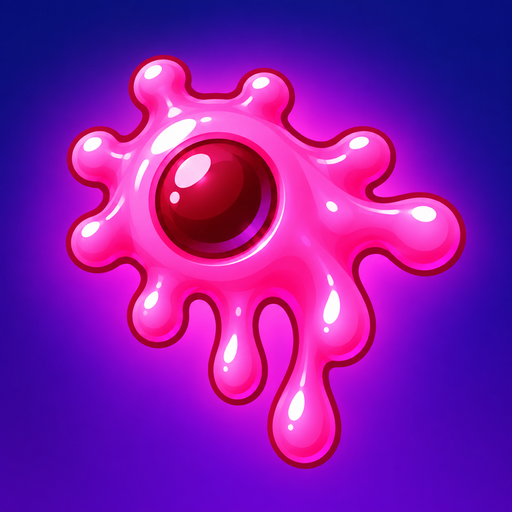
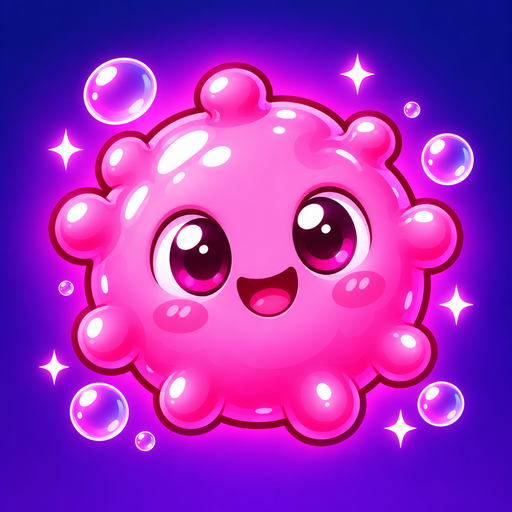
앱 아이콘을 귀여운 포자 캐릭터로 바꿈 (iOS·안드로이드·웹)
예전 아이콘이 눈알·살덩이처럼 보여 혐오감을 줄 수 있다는 의견에 따라
Codex로 그린 후보 중 C(분홍 포자, 반짝임·비눗방울)를 넣었다.
안드로이드 적응형 아이콘은 안쪽 그림을 키워 테두리가 보이지 않게 했다.

diff --git a/Tools/make_android_icon.py b/Tools/make_android_icon.py
@@ -12,7 +12,7 @@ icon = Image.open("SporeSweep/Assets.xcassets/AppIcon.appiconset/AppIcon.png").c
 
 N = 432
 layer = icon.resize((N, N), Image.LANCZOS).filter(ImageFilter.GaussianBlur(60))
-inner = round(N * 0.62)
+inner = round(N * 0.76)  # 아이콘 가장자리가 보이는 72dp 밖에 오게 한다
 mask = Image.new("L", (inner, inner), 0)
 margin = round(inner * 0.04)
 ImageDraw.Draw(mask).ellipse((margin, margin, inner - margin, inner - margin), fill=255)

diff --git a/HANDOFF.md b/HANDOFF.md
@@ -138,6 +138,10 @@
 
 새것이 위다.
 
+- **2026-10-29** 아이콘을 후보 C로 바꿨다(계정 주인 결정, "너무 귀엽게 그렸나 싶기는 하다"는 말도 있었다): iOS `AppIcon.png`, `Art/incoming/app_icon.png`(예전 것은 `app_icon_v2.png`), 안드로이드 `ic_launcher.png`·적응형 층(`Tools/make_android_icon.py`), 웹 `icon.png`, Play 아이콘 `Marketing/store/play/icon_512.png`(`Tools/make_play_graphics.py`). DESIGN.md 10장과 Art/PROMPTS.md 7번을 고쳤다. 안드로이드 디버그·iOS 시뮬레이터 빌드 성공. 남은 것: App Store와 Play 스토어 등록정보·Play 게임즈 아이콘 바꾸기, iOS 1.0.1과 안드로이드 다음 versionCode에 담기. 같은 날 캣타워 통신판매업 신고의 "구매안전서비스 비적용 대상 확인서"를 채운 그림(제3호 체크, 소명 4줄)을 계정 주인 `~/Downloads`에 만들었다.
+- **2026-10-29** 연결이 풀려 Codex로 귀여운 포자 아이콘 후보 3장을 그렸다(`Art/incoming/icon_v3/icon_a.png` 분홍, `icon_b.png` 민트 윙크, `icon_c.png` 분홍+반짝임·비눗방울, 비교 `compare.png`). 계정 주인이 고르면 iOS·안드로이드 아이콘과 DESIGN.md 10장, 스토어·Play 게임즈 아이콘을 바꾼다.
+- **2026-10-28** 앱 아이콘이 혐오감을 줄 수 있다는 의견(번들거리는 분홍 덩어리 가운데 검붉은 핵이 눈알·고름처럼 보이고, 흘러내리는 방울이 살덩이 같다). 계정 주인 결정: **귀여운 포자 캐릭터**(동그랗고 말랑한 몸, 큰 눈과 웃는 얼굴, 흘러내림·검붉은 핵 없음)로 바꾼다. DESIGN.md 10장의 아이콘 설명은 새 그림을 고른 뒤 고친다. Codex 그림 생성(`Art/incoming/icon_v3/`에 후보 3장)은 이 맥에서 chatgpt.com·openai.com 연결이 TLS 단계에서 끊겨(api.openai.com은 됨) 실패했다. `codex exec -i`는 뒤의 문장까지 그림으로 읽으므로 프롬프트는 표준 입력으로 넘긴다.
+- **2026-10-28** 보상형 광고 흐름을 다시 확인: 안드로이드 에뮬레이터(디버그, Google DNS)와 iOS 시뮬레이터(디버그)에서 "광고 보고 생명 +1" → 시험 광고 → 보상 → 생명 3→4. AdMob 보고서상 iOS 앱은 최근 7일 요청 12·노출 0(앱 인증 전 제한 게재). 맥의 AdGuard는 보호를 끄고 DNS 캐시까지 비워야 풀렸다.
 - **2026-10-28** 안드로이드 클라우드 저장을 main에 머지(`341032f`)하고 versionCode 5(0.2, 시험 광고)를 비공개 테스트 Alpha에 올려 검토에 냈다(신규 설치 21.2MB). 승인되면 Play에서 받은 빌드로 진행 만들기 → 지우기 → 다시 받기를 확인한다(불법 복제 방지 때문에 직접 깐 빌드는 Play 게임즈 로그인이 안 된다). AdMob 앱 인증은 여전히 "일치하지 않음"이지만 계정 주인 말로는 iOS 광고가 나온다(제한 게재). 맥의 AdGuard가 `apps.admob.com`을 막아 AdMob 로그인이 안 됐다.
 - **2026-10-28** 안드로이드 클라우드 저장(Play 게임즈 저장된 게임)을 만들었다(브랜치 `agentic/android-cloud`, 커밋 전, versionCode 5). iOS와 같은 다시 설치 보호를 `core`의 `CloudGate`·`CloudSync`로 옮기고 `PlayGamesCloud`(app)를 붙였다. 설정에 "Google Play 게임즈에 저장" 스위치. Codex 리뷰 2회에서 실제 문제 11개를 짚어 모두 고쳤다(2차 수정분은 다시 리뷰받지 못함): 열기 실패에서 멈춤, 읽기와 쓰기를 한 번 연 자리에서, 읽지 못한 것을 빈 것으로 보지 않음, 충돌 재시도 상한, 끄기·다시 하기 중 결과 버리기, 지우기 실패 재시도(앱을 다시 켜도), 지우기를 하던 일 뒤로, 쓰기 반환값 확인, **쓴 아이템이 되살아나던 문제**(아이템 변경 횟수 `boosterStamp`, iOS에도 적용 — iOS main에 이미 들어간 동률 규칙의 결함), 시작 아이템이 예전 저장을 덮던 문제(iOS에도). core 테스트 53개, iOS Progress 테스트 45개 통과, iOS·안드로이드·웹 빌드 성공. 기기 시험은 아직: 불법 복제 방지 때문에 Play에서 받은 빌드로 해야 한다.
 - **2026-10-28** 포자 대청소 안드로이드 클라우드 저장 준비(콘솔): Play 게임즈 서비스 프로젝트를 만들고(클라우드 프로젝트 `sporesweep-7943b`, 게임 ID `628685495718`) 속성(표시 이름 "포자 대청소: SporeSweep", 퍼즐, 아이콘·그래픽, **저장된 게임 켬**)을 넣었다. Google 인증 플랫폼: OAuth 동의 화면(외부, 앱 이름 포자 대청소, 지원 메일은 목록에 하나뿐인 계정 주인 Gmail, 연락처 hello@code404.app, 홈 `https://code404.app/sporesweep/`, 처리방침 `/privacy/`, 승인 도메인 code404.app, 범위 `games`·`games_lite`·`drive.appdata`, 프로덕션 게시, 정책 동의는 계정 주인). 안드로이드 OAuth 클라이언트 둘(Play 앱 서명 키 SHA-1 `D2:C3:…:B5:F0`, 업로드 키 `25:22:…:47:CF`) 중 앱 서명 키 것을 Play 게임즈 사용자 인증 정보로 연결(불법 복제 방지 켬: 끄기는 보안 약화로 막혔다. 그래서 Play에서 받은 빌드로만 로그인된다). 구성을 게시했다.

diff --git a/DESIGN.md b/DESIGN.md
@@ -907,7 +907,7 @@ swift run -c release levelgen tokyo 16 --from 0.25 --to 0.6 --seed 7 --features 
 | 격리 컨테이너 | `container` |
 | 랜드마크 | `landmark_bg_*`(배경), `landmark_building_*`(건물), `landmark_trees_*`(나무와 풀숲)가 `restored`와 `ruined`로 하나씩 있고, 포자는 `landmark_spore_0`(둥근 것)부터 `landmark_spore_4`까지 다섯 가지 모양이다. 앱의 에셋 카탈로그에 있다 |
 
-앱 아이콘은 남색에서 보라로 내려가는 바탕에 분홍색 포자 하나를 그린 그림이다. 게임 안의 포자와 같은 화풍이고, 둥근 포자가 아니라 한쪽으로 쏠려 아래로 흘러내리는 비정형 포자다.
+앱 아이콘은 남색에서 보라로 내려가는 바탕에 분홍색 포자 캐릭터 하나를 그린 그림이다. 동그랗고 말랑한 몸에 짧고 둥근 돌기가 있고, 큰 눈과 웃는 입, 볼터치가 있다. 둘레에 반짝임과 비눗방울을 두어 청소하는 게임임을 보인다. 예전 아이콘(흘러내리는 비정형 포자와 검붉은 핵)은 눈알이나 살덩이처럼 보여 혐오감을 줄 수 있다는 의견이 있어 2026-10-29에 바꿨다(예전 그림은 `Art/incoming/app_icon_v2.png`).
 
 **효과음.** 스왑, 스왑 거부, 매치 제거, 특수 블록 생성과 발동, 장애물 파괴, 물질 수거, 승리, 실패, 랜드마크 복원, 버튼의 15개와 인트로 장면용 5개다. 매치 제거음은 연쇄가 이어질수록 음이 올라가고 5번째부터는 같다. 소리는 ElevenLabs의 효과음 생성으로 만든다. `Tools/make_sounds_ai.py`가 소리마다 프롬프트로 요청하고, 받은 소리의 앞뒤 무음을 잘라 길이와 음량을 맞춘다. API 키는 저장소에 두지 않고 맥의 키체인(`elevenlabs-api-key`)에서 읽으며, 받은 원본은 `Art/sounds/`에 남긴다. 매치 제거음은 하나만 생성하고 나머지 네 단계는 그 소리의 음높이를 바꿔 만든다. 따로 생성하면 음색과 음정이 제각각이 되기 때문이다. 코드로 합성하는 예전 방식(`Tools/make_sounds.py`)도 남아 있어서, 키 없이도 같은 이름의 소리를 만들 수 있다. 파일은 `GameScene/Sources/GameScene/Sounds/`에 있고, 같은 이름의 WAV로 바꿔 넣으면 된다. 무음 스위치를 따르고, 듣고 있던 음악을 끊지 않는다. 안드로이드에는 무음 스위치가 없고 진동 모드로 지내는 사람이 많아서, 벨소리 모드와 상관없이 미디어 볼륨을 따른다.
 

diff --git a/Art/PROMPTS.md b/Art/PROMPTS.md
@@ -214,7 +214,9 @@ Edit the previous image. Keep exactly the same composition, camera, framing, bui
 Do not add any creatures, spores, fire, smoke, or text.
 ```
 
-## 7. 앱 아이콘 — `app_icon.png` (완료)
+## 7. 앱 아이콘 — `app_icon.png` (완료, 2026-10-29 다시 그림)
+
+2026-10-29에 귀여운 포자 캐릭터로 다시 그렸다. Codex에 예전 아이콘을 화풍·바탕 참조로 붙이고(모양은 따르지 않게), 후보 세 장(`Art/incoming/icon_v3/`) 가운데 C(분홍, 반짝임·비눗방울)를 골랐다. 프롬프트는 `codex exec -i`가 뒤의 문장을 그림으로 읽으므로 표준 입력으로 넘긴다. 아래는 예전 프롬프트다.
 
 가로 1024 × 세로 1024. 투명 없이 꽉 찬 정사각형이어야 한다(앱스토어 규정).
 
